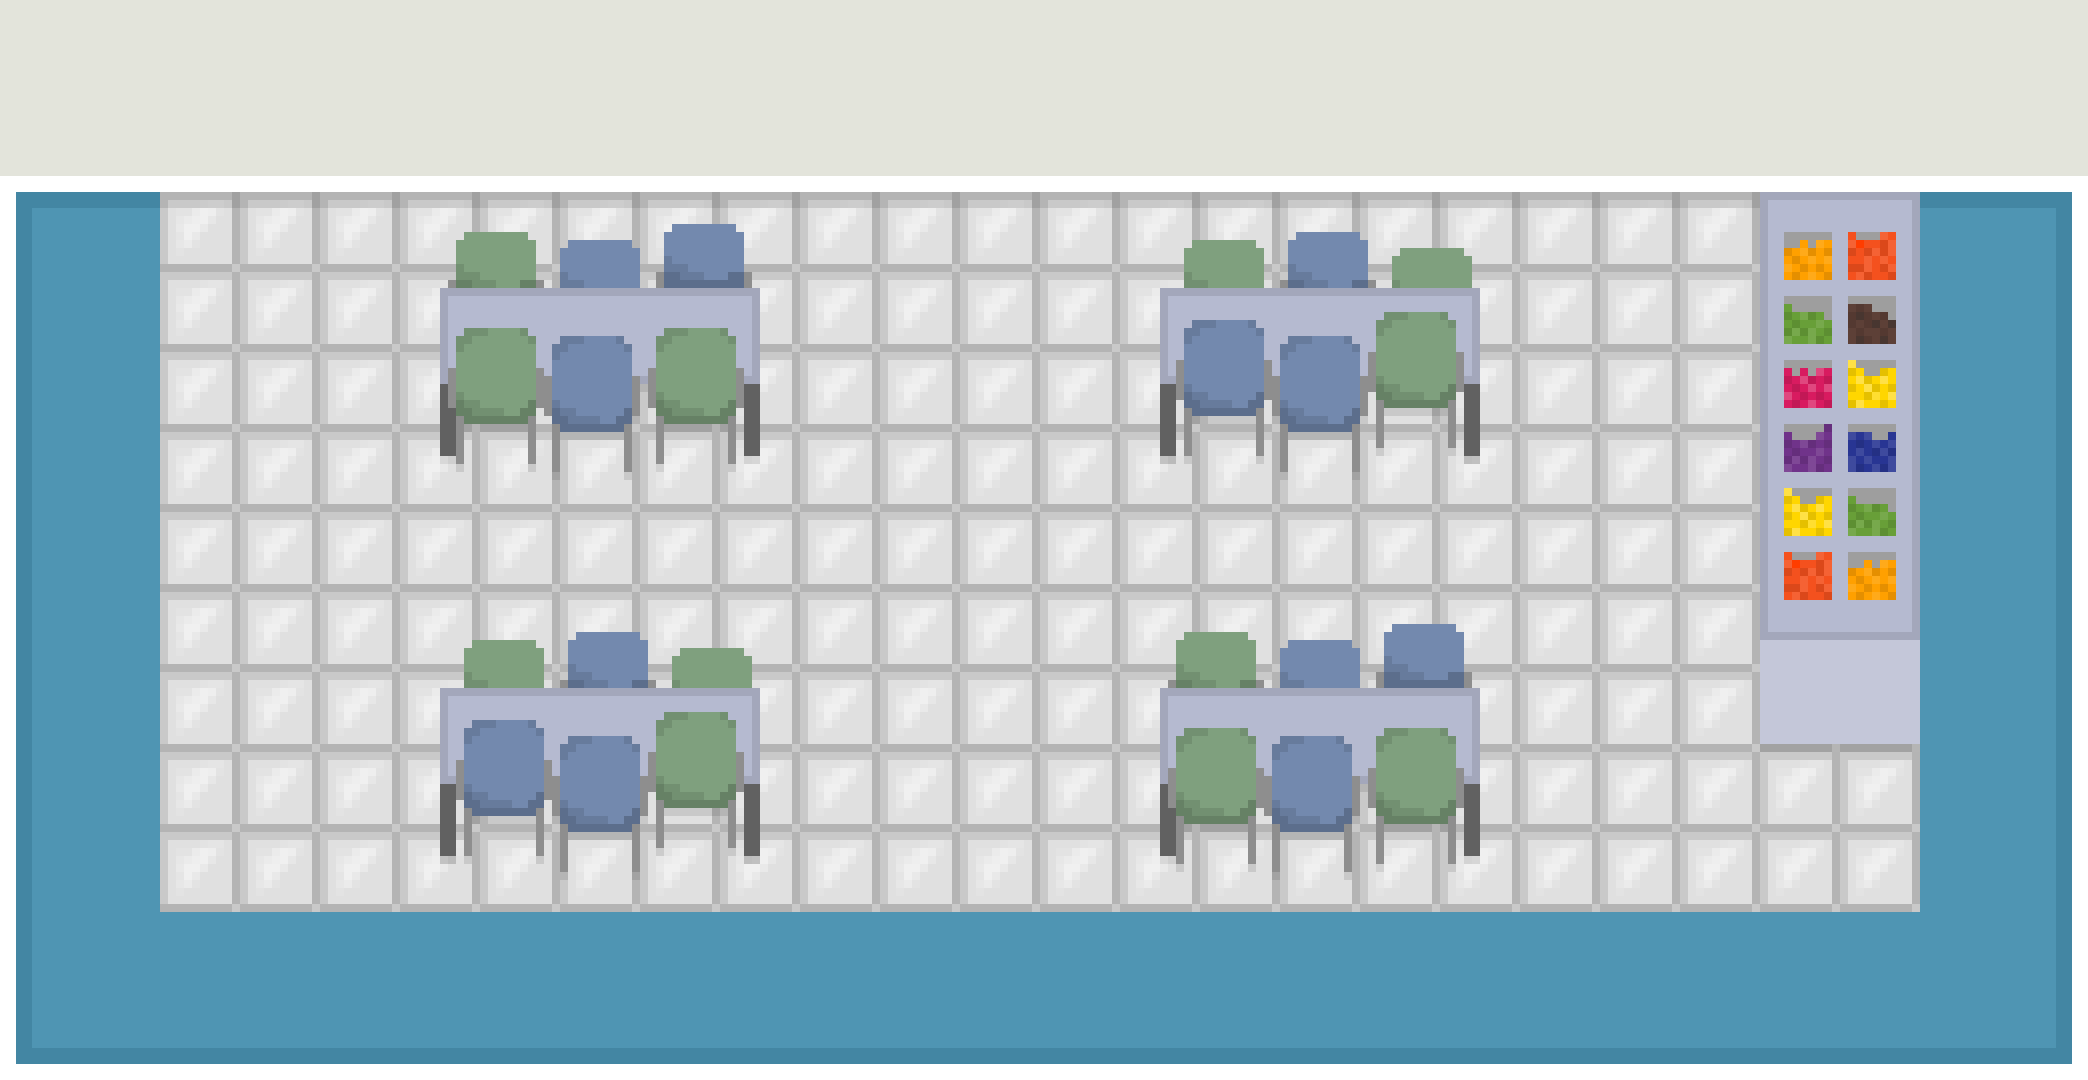
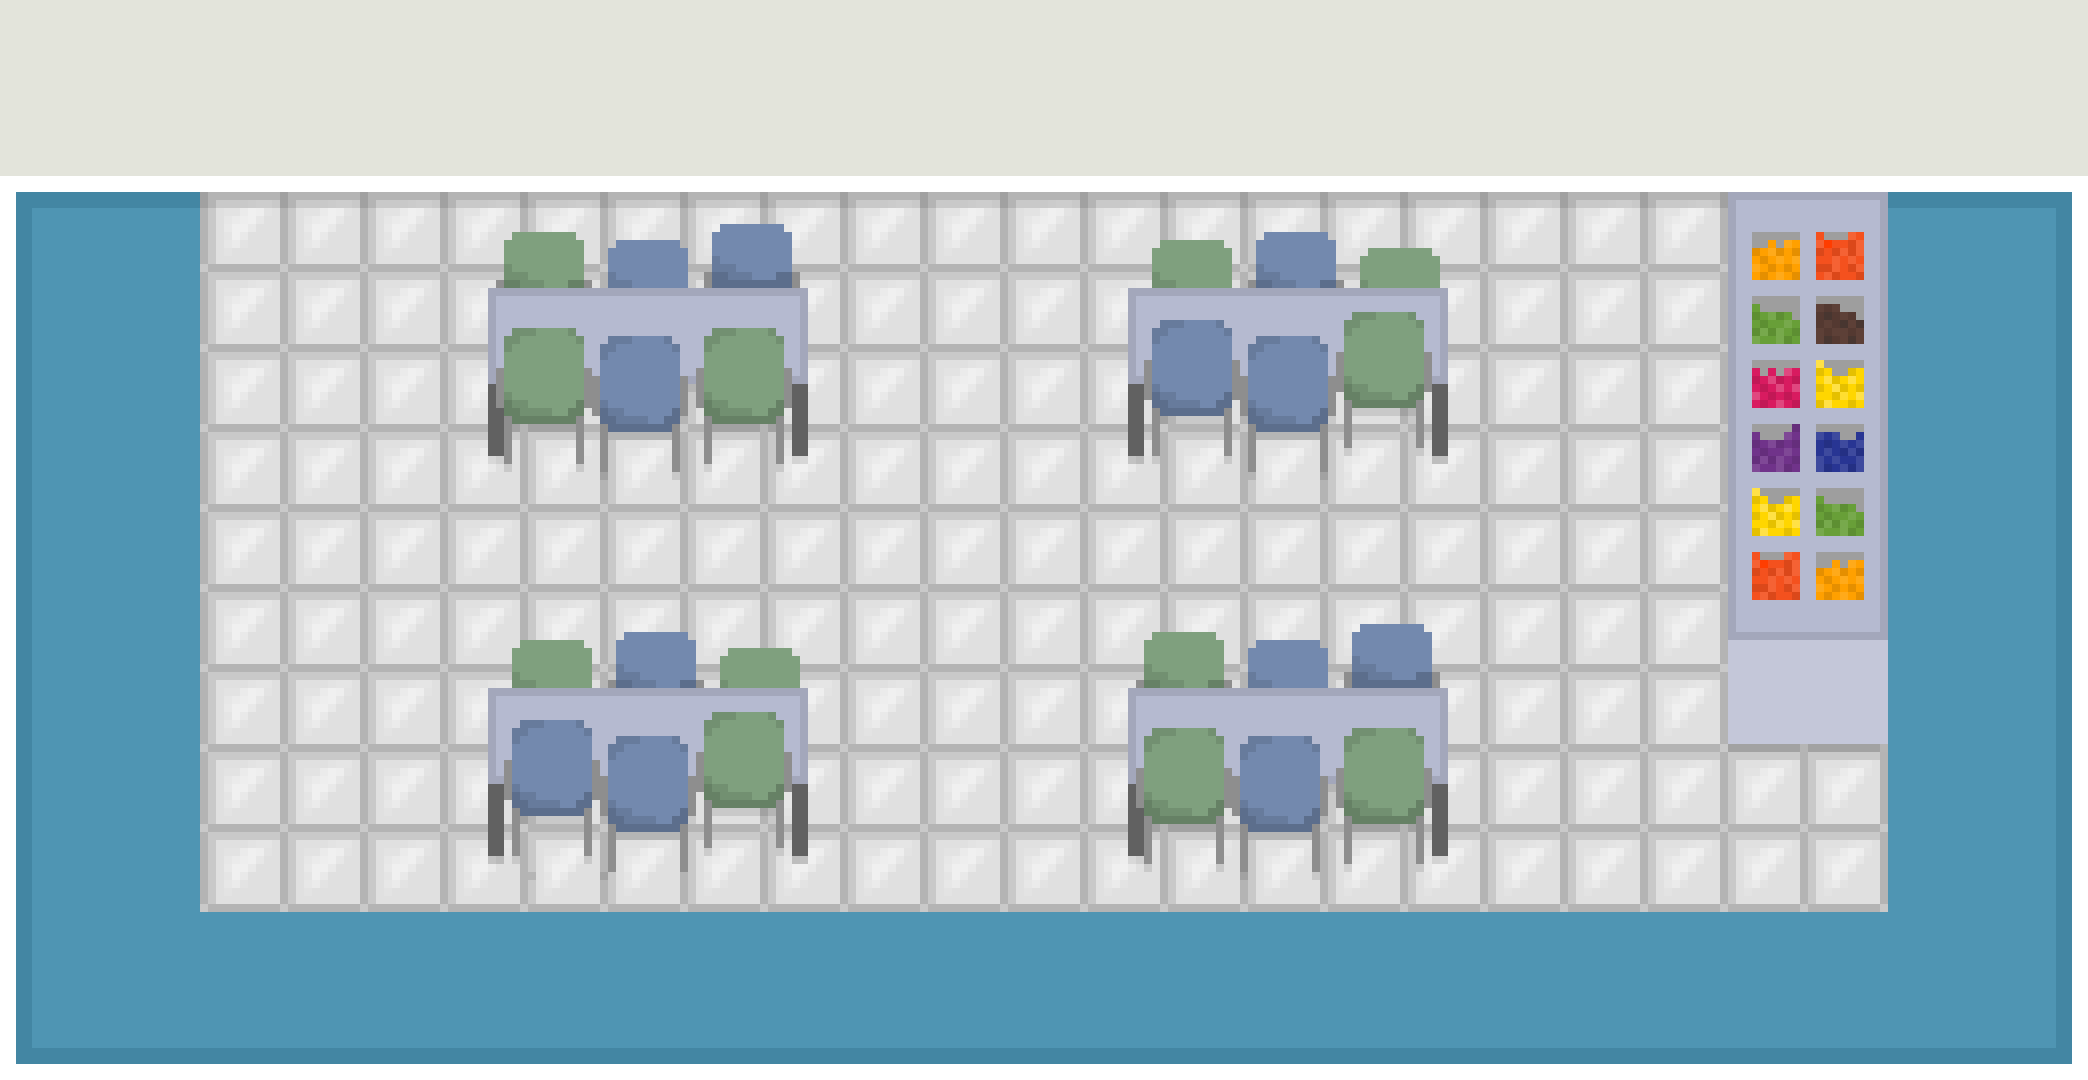
Adding boss interactability system, including pre and post combat messages

Changed region(s): [[0.0623, 0.1833, 0.9339, 0.8556]]

diff --git a/final_project/core/src/com/mygdx/game/Layout.java b/final_project/core/src/com/mygdx/game/Layout.java
@@ -413,8 +413,8 @@ public class Layout {
         if(floorIn ==0){ //tutorial floor
             rooms.get(floorIn).get(rowIn).set(columnIn, new Sprite(new Texture(sprite)));
             if(rooms.get(floorIn).get(rowIn).get(columnIn).getTexture().toString().equals("office-space-no-printer.png")){
-                interactables.get(floorIn).get(rowIn).get(columnIn).add(new TutorialPrinter("printer-shadow.png", floorIn, rowIn, columnIn, 0));
-                interactables.get(floorIn).get(rowIn).get(columnIn).get(0).setPosition(1528, 200);
+                interactables.get(floorIn).get(rowIn).get(columnIn).add(new TutorialPrinter("printer-shadow.png", floorIn, rowIn, columnIn, 0, 1528, 200));
+                //interactables.get(floorIn).get(rowIn).get(columnIn).get(0).setPosition(1528, 200);
                 Integer[] tutorial = new Integer[2];
                 tutorial[0] = rowIn;
                 tutorial[1] = columnIn;
@@ -545,8 +545,10 @@ public class Layout {
         bossRooms.add(bossRoom);
 
         rooms.get(floorIn).get(newRow).set(newCol, new Sprite(new Texture(sprite)));
-        enemies.get(floorIn).get(newRow).get(newCol).add(new Enemy(1000,400,2,bossNames.get(floorIn),floorIn, null));
-        enemies.get(floorIn).get(newRow).get(newCol).get(0).setBoss();
+        interactables.get(floorIn).get(newRow).get(newCol).add(new Boss(bossNames.get(floorIn), floorIn, newRow, newCol, 0, 1000, 400));
+
+        //enemies.get(floorIn).get(newRow).get(newCol).add(new Enemy(1000,400,2,bossNames.get(floorIn),floorIn, null));
+        //enemies.get(floorIn).get(newRow).get(newCol).get(0).setBoss();
 
         connections.get(floorIn).get(newRow).get(newCol).add(direction);
         if (direction == 0) {
@@ -603,8 +605,10 @@ public class Layout {
         stairRooms.add(stairDown);
 
         rooms.get(maxFloor).get(0).set(0, new Sprite(new Texture("blank-room.png")));
-        enemies.get(maxFloor).get(0).get(0).add(new Enemy(1000,400,2,bossNames.get(maxFloor),maxFloor, null));
-        enemies.get(maxFloor).get(0).get(0).get(0).setBoss();
+        interactables.get(maxFloor).get(0).get(0).add(new Boss(bossNames.get(maxFloor), maxFloor, 0, 0, 0, 1000, 400));
+
+        //enemies.get(maxFloor).get(0).get(0).add(new Enemy(1000,400,2,bossNames.get(maxFloor),maxFloor, null));
+        //enemies.get(maxFloor).get(0).get(0).get(0).setBoss("PUT A MESSAGE FOR THE FINAL BOSS TO SAY AFTER DYING HERE");
 
         connections.get(maxFloor).get(0).get(0).add(3);
         connections.get(maxFloor).get(1).get(0).add(2);

diff --git a/final_project/core/src/com/mygdx/game/Boss.java b/final_project/core/src/com/mygdx/game/Boss.java
@@ -1,0 +1,58 @@
+package com.mygdx.game;
+
+import com.badlogic.gdx.graphics.Texture;
+import com.badlogic.gdx.graphics.g2d.Sprite;
+import com.badlogic.gdx.math.Rectangle;
+
+public class Boss extends Interactable{
+    private int floor, row, column, index, x, y;
+    private Enemy boss;
+
+    public Boss(String image, int floorIn, int rowIn, int columnIn, int indexIn, int xIn, int yIn) {
+        super(image, floorIn, rowIn, columnIn, indexIn, xIn, yIn);
+        floor = floorIn;
+        row = rowIn;
+        column = columnIn;
+        index = indexIn;
+        x = xIn;
+        y = yIn;
+        boss = new Enemy(x, y,2, super.getSprite().getTexture().toString(), floorIn, null);
+        String bossMessage;
+        if(floor == 1){
+            bossMessage = "PUT A POST-COMBAT MESSAGE\nFOR THE FLOOR 1 BOSS HERE";
+        } else if(floor == 2){
+            bossMessage = "PUT A POST-COMBAT MESSAGE\nFOR THE FLOOR 2 BOSS HERE";
+        } else if(floor == 3){
+            bossMessage = "PUT A POST-COMBAT MESSAGE\nFOR THE FLOOR 3 BOSS HERE";
+        } else{
+            bossMessage = "PUT A POST-COMBAT MESSAGE\nFOR THE FINAL BOSS HERE";
+        }
+        boss.setBoss(bossMessage);
+    }
+
+    public boolean isHuman(){return boss.isHuman();}
+
+    @Override
+    public void interact(GameScreen game){
+        if(boss.isHuman()){
+            game.getHud().setText("PUT A POST-COMBAT MESSAGE\nFOR THE HUMANS HERE");
+        } else {
+            if(floor == 1){
+                game.getHud().setText("PUT A PRE-COMBAT MESSAGE\nFOR THE FLOOR 1 BOSS HERE");
+            } else if(floor == 2){
+                game.getHud().setText("PUT A PRE-COMBAT MESSAGE\nFOR THE FLOOR 2 BOSS HERE");
+            } else if(floor == 3){
+                game.getHud().setText("PUT A PRE-COMBAT MESSAGE\nFOR THE FLOOR 3 BOSS HERE");
+            } else{
+                game.getHud().setText("PUT A PRE-COMBAT MESSAGE\nFOR THE FINAL BOSS HERE");
+            }
+        }
+    }
+
+    public void fight(GameScreen game){
+        game.getPlayer().setCombat();
+        super.setSprite(boss.getHumanSprite());
+        super.positionChanged();
+        game.getGame().setScreen(new CombatScreen(game.getGame(), boss, game.getPlayer(), game));
+    }
+}

diff --git a/final_project/core/src/com/mygdx/game/Boundary.java b/final_project/core/src/com/mygdx/game/Boundary.java
@@ -102,37 +102,37 @@ public class Boundary extends Actor {
             location5.add(224);
             enemyLocations.add(location5);
         } else if(filename.equals("cafeteria.png")){
-            boundaries.add(new Rectangle(440, 208, 320, 240));
-            boundaries.add(new Rectangle(440, 608, 320, 248));
-            boundaries.add(new Rectangle(1160, 208, 320, 248));
-            boundaries.add(new Rectangle(1160, 608, 320, 240));
-            boundaries.add(new Rectangle(1768, 328, 160, 576));
+            boundaries.add(new Rectangle(488, 208, 320, 240));
+            boundaries.add(new Rectangle(488, 608, 320, 248));
+            boundaries.add(new Rectangle(1128, 208, 320, 248));
+            boundaries.add(new Rectangle(1128, 608, 320, 240));
+            boundaries.add(new Rectangle(1728, 328, 160, 576));
             List<Integer> location1 = new ArrayList<>();
-            location1.add(160);
-            location1.add(400);
+            location1.add(200);
+            location1.add(440);
             location1.add(48);
             location1.add(856);
             enemyLocations.add(location1);
             List<Integer> location2 = new ArrayList<>();
-            location2.add(800);
-            location2.add(1128);
+            location2.add(840);
+            location2.add(1096);
             location2.add(300);
             location2.add(600);
             enemyLocations.add(location2);
             List<Integer> location3 = new ArrayList<>();
-            location3.add(1512);
-            location3.add(1720);
+            location3.add(1480);
+            location3.add(1704);
             location3.add(48);
             location3.add(856);
             enemyLocations.add(location3);
             List<Integer> location4 = new ArrayList<>();
             location4.add(48);
-            location4.add(800);
+            location4.add(840);
             location4.add(48);
             location4.add(184);
             enemyLocations.add(location4);
             List<Integer> location5 = new ArrayList<>();
-            location5.add(1400);
+            location5.add(1480);
             location5.add(2032);
             location5.add(48);
             location5.add(184);

diff --git a/final_project/core/src/com/mygdx/game/Interactable.java b/final_project/core/src/com/mygdx/game/Interactable.java
@@ -8,28 +8,43 @@ import com.badlogic.gdx.scenes.scene2d.Actor;
 
 public class Interactable extends Actor {
     private Sprite sprite;
+    private Rectangle interactionBounds;
     private Rectangle bounds;
-    private int floor, row, column, index;
+    private int floor, row, column, index, x, y;
 
-    public Interactable(String image, int floorIn, int rowIn, int columnIn, int indexIn){
+    public Interactable(String image, int floorIn, int rowIn, int columnIn, int indexIn, int xIn, int yIn){
         sprite = new Sprite(new Texture(image));
+        sprite.setPosition(xIn, yIn);
+        interactionBounds = new Rectangle(this.sprite.getX() - 30, this.sprite.getY() - 30, this.sprite.getWidth() + 60, this.sprite.getHeight() + 60);
+        bounds = new Rectangle(this.sprite.getX(), this.sprite.getY(), this.sprite.getWidth(), this.sprite.getHeight());
         this.setBounds(this.sprite.getX(), this.sprite.getY(), this.sprite.getWidth(), this.sprite.getHeight());
-        bounds = new Rectangle(this.sprite.getX() - 50, this.sprite.getY() - 50, this.sprite.getWidth() + 50, this.sprite.getHeight() + 50);
         this.setOrigin(this.sprite.getWidth() / 2, this.sprite.getHeight() / 2);
         floor = floorIn;
         row = rowIn;
         column = columnIn;
         index = indexIn;
+        x = xIn;
+        y = yIn;
+    }
+
+    public Rectangle getInteractionBounds(){
+        return interactionBounds;
     }
 
     public Rectangle getBounds(){
         return bounds;
     }
 
+
+    public Sprite getSprite(){return sprite;}
+
+    public void setSprite(Sprite spriteIn){sprite = spriteIn;}
+
     @Override
     public void positionChanged(){
         sprite.setPosition(getX(), getY());
-        this.bounds.set(getX(), getY() - 30, this.sprite.getWidth(), this.sprite.getHeight() + 30);
+        this.interactionBounds.set(getX() - 30, getY() - 30, this.sprite.getWidth() + 60, this.sprite.getHeight() + 60);
+        this.bounds.set(getX(), getY(), this.sprite.getWidth(), this.sprite.getHeight());
     }
 
     @Override

diff --git a/final_project/core/src/com/mygdx/game/Enemy.java b/final_project/core/src/com/mygdx/game/Enemy.java
@@ -27,6 +27,8 @@ public class Enemy extends Actor {
     private String name;
     private Random random;
     private List<Integer> movement;
+    private String bossMessage;
+    private boolean isHuman;
 
     public Enemy(int x, int y, int speedIn, String file, int floorIn, List<Integer> movementIn){
         initSprites(file);
@@ -65,16 +67,20 @@ public class Enemy extends Actor {
         //maxHealth = health = 10;
         money = maxHealth = health = floor*10 + random.nextInt(10);
         experience = level*2;
+        bossMessage = "";
+        isHuman = false;
     }
 
     public Rectangle getHitbox(){
         return hitbox;
     }
 
+    public Sprite getHumanSprite(){return sprites[1];}
+
     private void initSprites(String file){
         sprites = new Sprite[2];
         sprites[0] = new Sprite(new Texture(file));
-        sprites[1] = new Sprite(new Texture("player-resized6x.png")); //change to random human character
+        sprites[1] = new Sprite(new Texture("human2-6x.png")); //change to random human character
         name = file.substring(0,file.length()-4);
         name = name.replaceAll("-"," ");
         name = name.toUpperCase();
@@ -241,10 +247,25 @@ public class Enemy extends Actor {
 
     public boolean hasKey(){ return key; }
 
-    public void setBoss(){
+    public boolean isBoss(){ return boss; }
+
+    public void setBoss(String bossMessageIn){
         boss = true;
+        bossMessage = bossMessageIn;
         //sprite = new Sprite(new Texture("enemy-printer-12x.png"));
         //positionChanged();
+    }
+
+    public boolean isHuman(){return isHuman;}
+
+    public void setHuman(){
+        isHuman = true;
+        sprite = sprites[1];
+        positionChanged();
+    }
+
+    public String getBossMessage(){
+        return bossMessage;
     }
 
     public void setHealth(int healthIn){

diff --git a/final_project/core/src/com/mygdx/game/TutorialPrinter.java b/final_project/core/src/com/mygdx/game/TutorialPrinter.java
@@ -3,10 +3,12 @@ package com.mygdx.game;
 import com.badlogic.gdx.Game;
 
 public class TutorialPrinter extends Interactable{
-    private int floor, row, column, index;
+    private int floor, row, column, index, x, y;
 
-    public TutorialPrinter(String image, int floorIn, int rowIn, int columnIn, int indexIn) {
-        super(image, floorIn, rowIn, columnIn, indexIn);
+    public TutorialPrinter(String image, int floorIn, int rowIn, int columnIn, int indexIn, int xIn, int yIn) {
+        super(image, floorIn, rowIn, columnIn, indexIn, xIn, yIn);
+        x = xIn;
+        y = yIn;
         floor = floorIn;
         row = rowIn;
         column = columnIn;
@@ -19,9 +21,9 @@ public class TutorialPrinter extends Interactable{
     }
 
     public void fight(GameScreen game){
-        Enemy tutorialPrinter = new Enemy(1528,200,2,"enemy-printer-12x.png", 0, null);
-        tutorialPrinter.setKey();
-        tutorialPrinter.setBoss();
+        Enemy tutorialPrinter = new Enemy(x,y,2,"enemy-printer-12x.png", floor, null);
+        //tutorialPrinter.setKey();
+        tutorialPrinter.setBoss("You managed to fight off the printer,\nbut what's going on upstairs?");
         game.getPlayer().setCombat();
         Layout.getInstance().removeInteractable(floor, row, column, index);
         game.getRoom().setUpInteractables();

diff --git a/final_project/core/src/com/mygdx/game/Hud.java b/final_project/core/src/com/mygdx/game/Hud.java
@@ -66,6 +66,10 @@ public class Hud {
                         if(interactable != null){
                             if(interactable instanceof TutorialPrinter){
                                 ((TutorialPrinter)interactable).fight(gameScreen);
+                            } else if(interactable instanceof Boss){
+                                if(!((Boss)interactable).isHuman()){
+                                    ((Boss)interactable).fight(gameScreen);
+                                }
                             }
                         }
                         upButton.setTouchable(Touchable.enabled);
@@ -85,6 +89,8 @@ public class Hud {
                 if(interactable != null){
                     if(interactable instanceof TutorialPrinter){
                         ((TutorialPrinter)interactable).interact(gameScreen);
+                    } else if(interactable instanceof Boss){
+                        ((Boss)interactable).interact(gameScreen);
                     }
                 }
             }

diff --git a/final_project/core/src/com/mygdx/game/CombatScreen.java b/final_project/core/src/com/mygdx/game/CombatScreen.java
@@ -248,6 +248,13 @@ public class CombatScreen implements Screen {
     private void combatOver(boolean playerWon) {
         if(playerWon){//the player won
             player.setPosition(playerX, playerY);//put back in original spot
+            if(enemy.isBoss()){
+                enemy.setHuman();
+                String bossMessage = enemy.getBossMessage();
+                if(bossMessage != ""){
+                    gameScreen.getHud().setText(bossMessage);
+                }
+            }
             if(enemy.hasKey()){
                 gameScreen.getHud().setText("The enemy dropped a key!");
             }

diff --git a/final_project/core/src/com/mygdx/game/Player.java b/final_project/core/src/com/mygdx/game/Player.java
@@ -174,6 +174,12 @@ public class Player extends Actor {
                 this.speedX = 0;
             }
         }
+        for(Interactable interactable : Layout.getInstance().getInteractables()){
+            if(newBounds.overlaps(interactable.getBounds())){
+                this.speedX = 0;
+                this.speedY = 0;
+            }
+        }
         if(frameCounter < 4){
             frameCounter++;
         } else{

diff --git a/final_project/core/src/com/mygdx/game/Room.java b/final_project/core/src/com/mygdx/game/Room.java
@@ -113,7 +113,7 @@ public class Room extends Actor {
 
     public Interactable getInteractablesTouched(Player player) {
         for(Interactable interactable : interactables){
-            if(interactable.getBounds().overlaps(player.getBounds())){
+            if(interactable.getInteractionBounds().overlaps(player.getBounds())){
                 return interactable;
             }
         }
